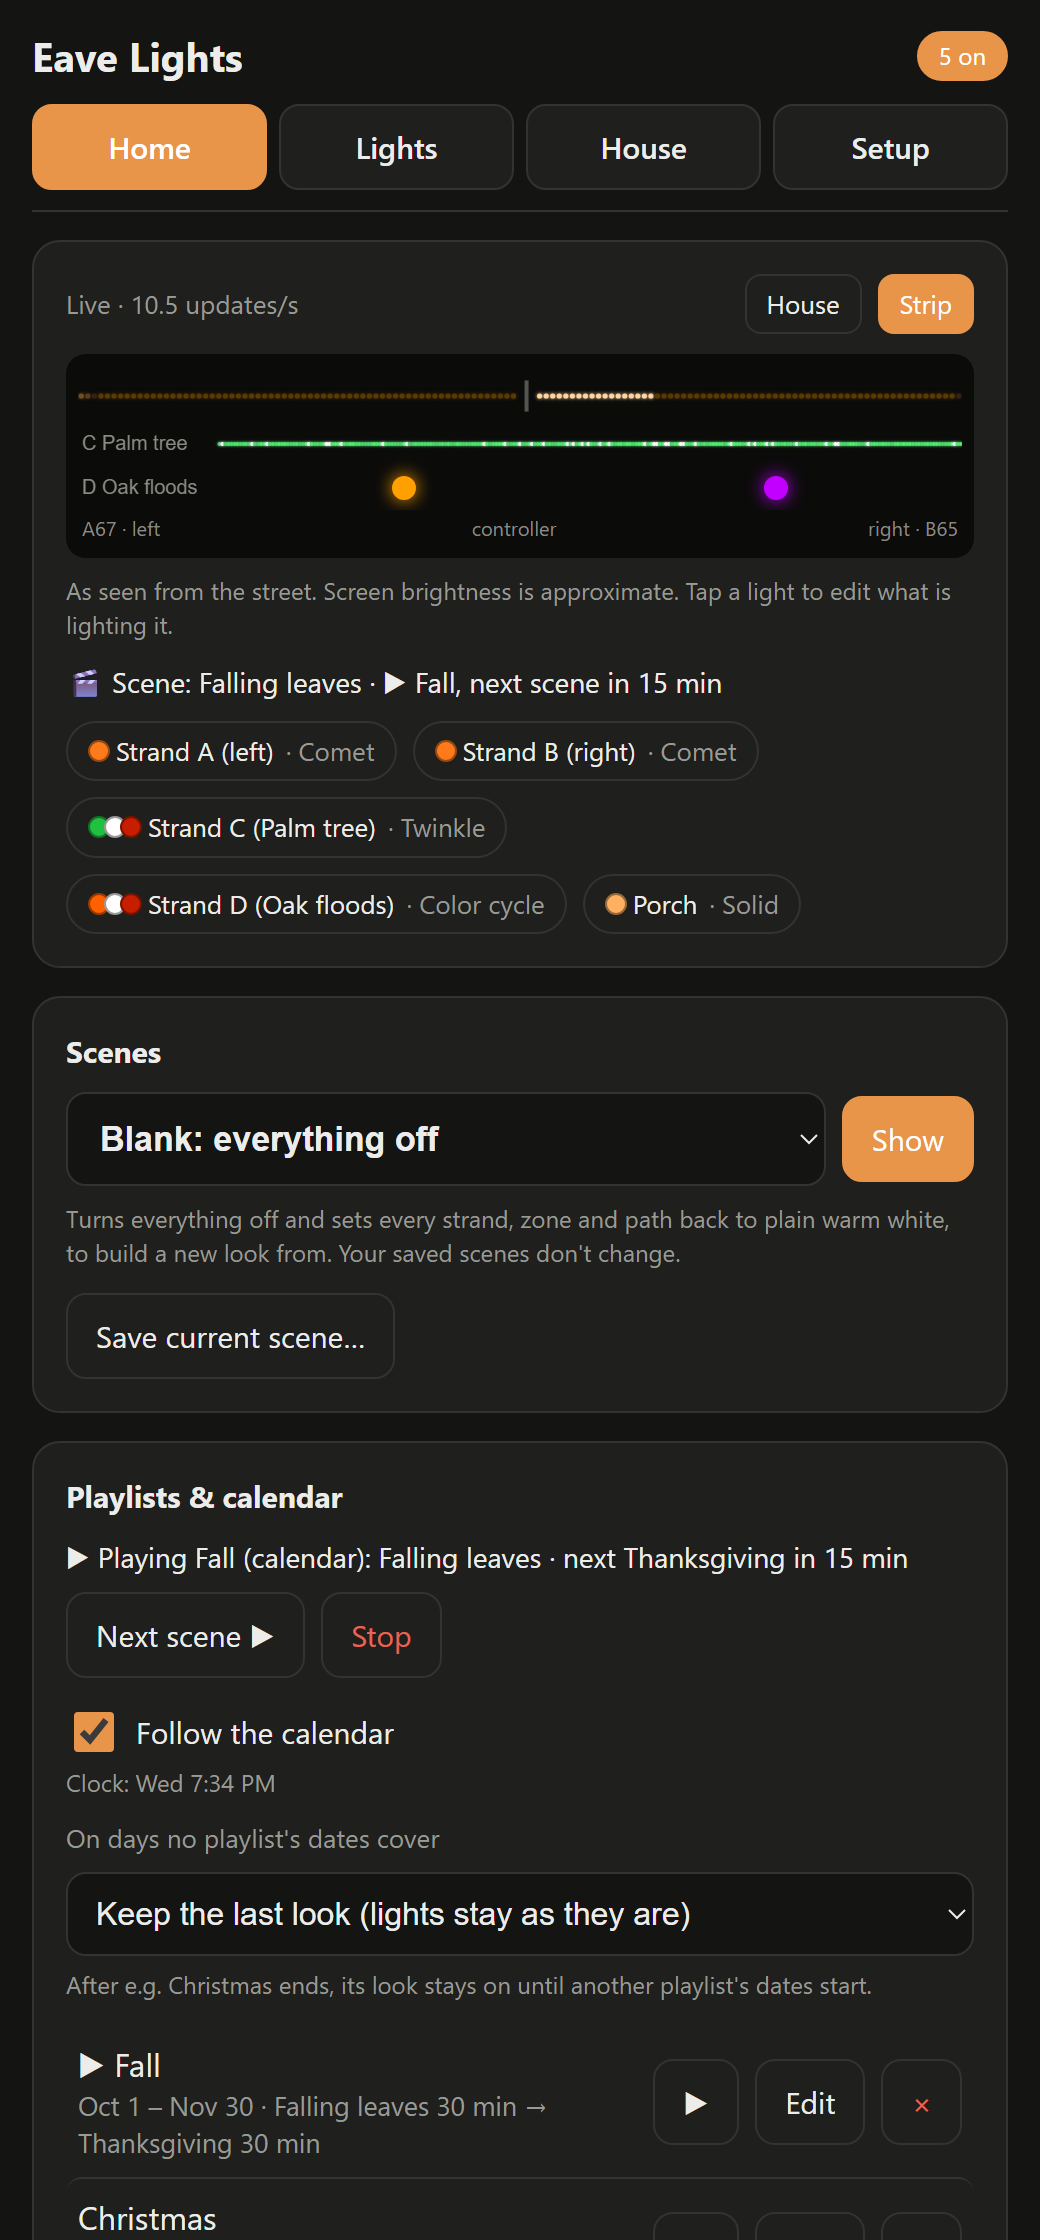
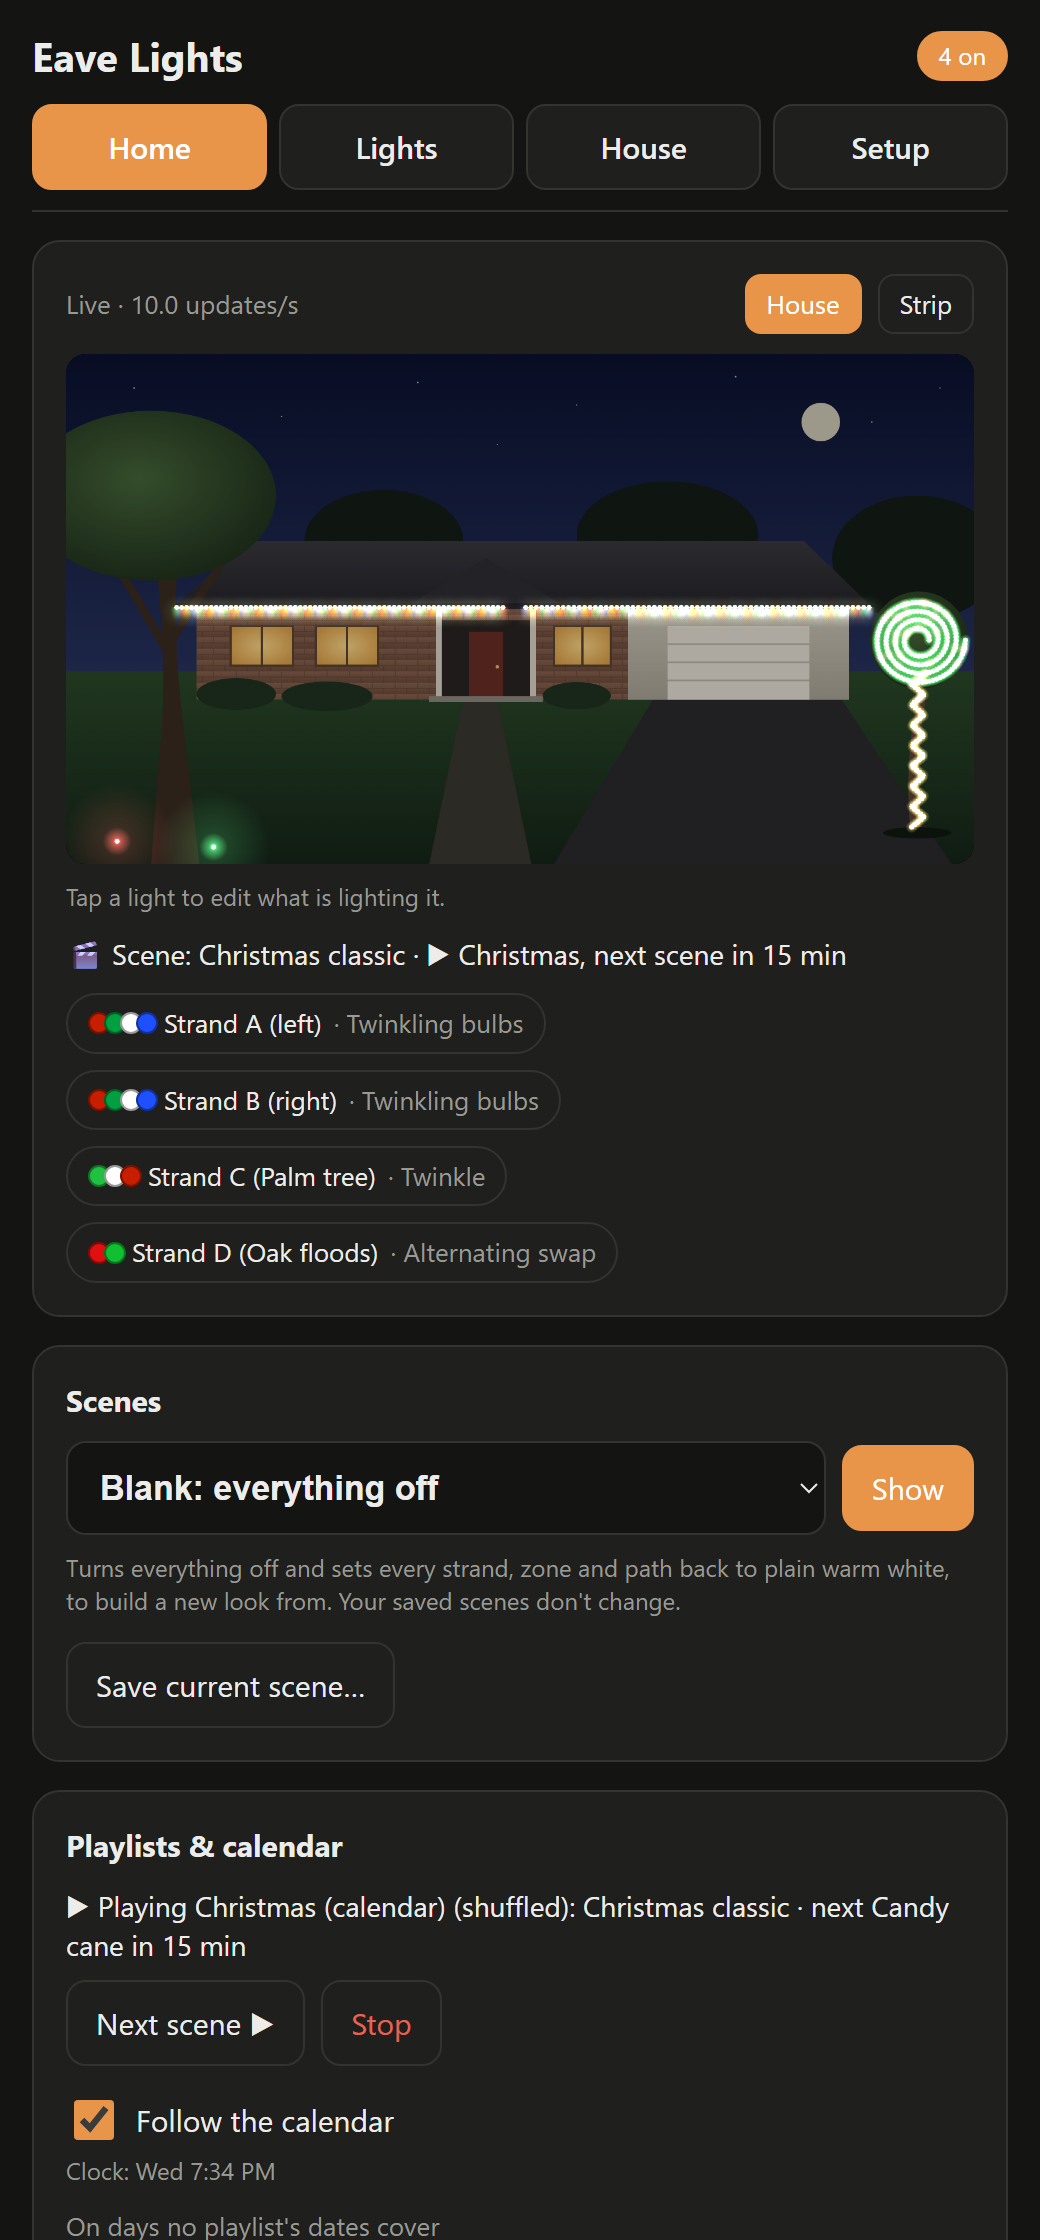
README: wide live house view on a made-up house, phone screenshots with the house view; Docs/images/demo kit to remake them

diff --git a/Docs/images/demo/mock.js b/Docs/images/demo/mock.js
@@ -1,0 +1,50 @@
+// Sample data for README screenshots (no real house data). Loaded before the page script.
+(function(){
+const TAB=(location.hash.slice(1)||'home');
+localStorage.setItem('eaveTab',JSON.stringify(TAB));
+localStorage.setItem('eaveLiveMode',JSON.stringify('photo'));
+localStorage.setItem('eaveSel',JSON.stringify(0));
+localStorage.setItem('eaveFolds',JSON.stringify(TAB==='setup'?['strands','radio','power']:[]));
+const look=(o)=>Object.assign({on:true,color:'#FF8C28',brightness:200,mode:'solid',fadeSeconds:5,fadeMin:64,speed:20,size:8,reverse:false,random:0,bgOn:true,bothWays:false,flipEvery:6,bgColor:'#1A0A00',colorCount:3,colors:['#FFFFFF','#C81E00','#00A040','#0040FF']},o);
+const out=(id,name,type,pin,count,o)=>Object.assign(look(o),{id,name,type,pin,running:true,order:id<'C'?'RBG':'RGB',gpio:type==='wired'?pin:0,enabled:type!=='off',count,cap:{override:id==='D',color:255,sum:765}});
+const S={version:'0.41.1',storage:true,canAllOn:false,
+ outputs:[out('A','left','wired',8,67,{mode:'bulbs',color:'#C81E00',colorCount:4,colors:['#00A040','#FFFFFF','#1E50FF','#FF8C00'],size:1}),out('B','right','wired',9,65,{mode:'bulbs',color:'#C81E00',colorCount:4,colors:['#00A040','#FFFFFF','#1E50FF','#FF8C00'],size:1}),
+  out('C','Palm tree','radio',10,250,{mode:'twinkle',color:'#20C040'}),out('D','Oak floods','radio',11,2,{mode:'alternate',color:'#E01010',colorCount:2,colors:['#10C030','#FFFFFF','#FF0000','#0000FF']}),
+  out('E','','off',12,50,{on:false}),out('F','','off',13,50,{on:false})],
+ capGlobal:{red:240,green:240,blue:240,sum:570},capMeasured:{color:240,sum:400},restartNeeded:false,pins:[1,2,4,5,6,7,8,9,10,11,12,13,14,15,16,17,18,21,38,39,40,41,42,47],
+ boardLed:{strand:'D',light:1,pin:48,running:true},
+ radio:{ok:true,channel:6,rate:'long',hubs:[{mac:'68:9D:D2:00:00:01',name:'Palm box',fw:'hub 1.1.0',strands:'CD',rssi:-71,rssiHere:-68,pct:99,uptime:3600,age:1}]},
+ house:Object.assign(look({on:false,mode:'comet'}),{id:'house',name:'Whole house',length:132}),
+ zones:[Object.assign(look({on:false,mode:'solid',color:'#FFB060',colorCount:1}),{id:'z0',slot:0,name:'Porch',ranges:'B1-18',length:18,hidden:false,mirror:null}),
+  Object.assign(look({on:false}),{id:'z1',slot:1,name:'Garage',ranges:'A6-23',length:18,hidden:false,mirror:null}),
+  Object.assign(look({on:false}),{id:'z2',slot:2,name:'Trunk up',ranges:'C1-30',length:30,hidden:false,mirror:null}),
+  Object.assign(look({on:false}),{id:'z3',slot:3,name:'Trunk down',ranges:'C60-31',length:30,hidden:false,mirror:2})],
+ paths:[Object.assign(look({on:false,mode:'meteor'}),{id:'p0',slot:0,name:'Rocket',summary:'Trunk up → Fronds',steps:[{zone:2,reverse:false,gap:0}],length:30})],
+ scene:{id:6,name:'Christmas classic',edited:false},locate:{active:false,ranges:''}};
+// a colorful frame: comet on the eaves, porch warm, palm twinkle, floods orange/purple
+function frame(){if(window.DEMO_FRAME)return window.DEMO_FRAME(S.outputs.map(o=>o.count));const n=6,cnt=S.outputs.map(o=>o.count),b=[n];cnt.forEach(c=>b.push(c&255,c>>8));
+ const t=Date.now()/1000;
+ cnt.forEach((c,o)=>{for(let i=0;i<c;i++){let r=0,g=0,bl=0;
+  if(o<2){const head=(t*20)%80,d=head-i;if(d>=0&&d<14){const k=1-d/14;r=255*k;g=110*k;bl=20*k;}else{r=26;g=10;}
+   if(o===1&&i<18){r=255;g=170;bl=90;}}
+  else if(o===2){const s=Math.sin(i*12.9898)*43758.5;const f=s-Math.floor(s);r=20;g=150+90*f;bl=40;if(f>0.85){r=255;g=255;bl=255;}}
+  else if(o===3){if(i===0){r=255;g=90;}else{r=140;bl=255;}}
+  b.push(Math.round(r),Math.round(g),Math.round(bl));}});
+ return new Uint8Array(b).buffer;}
+const scenes=[['Warm white',14],['Falling leaves',6],['Halloween glow',7],['Halloween 3 color',7],['Thanksgiving',8],['Candy cane',9],['Christmas classic',9],['Winter blue',10]]
+ .map(([name,group],id)=>({id,name,on:4,colors:['#FF8C28','#C81E00','#20C040'],group}));
+const progs={programs:[{id:0,name:'Fall',steps:[{scene:1,seconds:1800},{scene:4,seconds:1800}],useDates:true,from:'10-01',to:'11-30',shuffle:false},
+ {id:1,name:'Christmas',steps:[{scene:5,seconds:1200},{scene:6,seconds:1200}],useDates:true,from:'12-01',to:'01-06',shuffle:true}],
+ active:{id:1,step:1,next:0,nextIn:900,manual:false},clock:'Wed 7:34 PM',timer:{enabled:true,onMode:0,onClock:1050,onOffset:0,offMode:0,offClock:420,offOffset:0,lat:40,lon:-82.9,sunset:1032,sunrise:461,todayOn:1032,todayOff:461,holdsOff:false,overrideLeft:-1},
+ scheduleOn:true,fallback:-1,manual:-1};
+window.fetch=async(u)=>{u=String(u);const J=x=>({ok:true,status:200,json:async()=>x,text:async()=>JSON.stringify(x),headers:{get:()=>'0'},arrayBuffer:async()=>frame()});
+ if(u.includes('/api/frame')||u.includes('/api/custom?'))return J(null);
+ if(u.includes('/api/state')||u.includes('/api/strands')||u.includes('/api/locate'))return J(S);
+ if(u.includes('/api/programs'))return J(progs);
+ if(u.includes('/api/presets'))return J({presets:[{id:0,name:'Xmas chase',mode:'chase',color:'#C81E00',bgOn:false,bgColor:'#000000',colorCount:2,colors:['#00A040','#FFFFFF','#FF0000','#0000FF']},{id:1,name:'Warm glow',mode:'fade',color:'#FFA040',bgOn:false,bgColor:'#000000',colorCount:1,colors:['#FFFFFF','#FF0000','#00FF00','#0000FF']}],scenes});
+ if(u.includes('/api/paint-meta'))return J({paintings:[{id:1,name:'Flag',used:[],locked:false}],swatches:['#FF8C28','#C81E00','#20C040','#FFFFFF']});
+ if(u.includes('/api/anims'))return J({anims:[]});
+ if(u.includes('/files/layout.json'))return J(window.DEMO_LAYOUT);
+ return {ok:false,status:404,json:async()=>({}),text:async()=>''};};
+window.addEventListener('error',e=>console.log('PAGEERR '+e.message+' @'+e.lineno));
+})();

diff --git a/Docs/images/demo/house.html b/Docs/images/demo/house.html
@@ -1,0 +1,53 @@
+<!doctype html><html><head><style>html,body{margin:0;background:#000}svg{display:block}</style></head><body>
+<!-- A made-up ranch house at dusk for the README screenshots (not a real house). 1600 x 900. -->
+<svg width="1600" height="900" viewBox="0 0 1600 900" xmlns="http://www.w3.org/2000/svg">
+<defs>
+ <linearGradient id="sky" x1="0" y1="0" x2="0" y2="1"><stop offset="0" stop-color="#0b1230"/><stop offset="0.6" stop-color="#27325e"/><stop offset="1" stop-color="#4a3f63"/></linearGradient>
+ <linearGradient id="lawn" x1="0" y1="0" x2="0" y2="1"><stop offset="0" stop-color="#2c4a2a"/><stop offset="1" stop-color="#16261a"/></linearGradient>
+ <linearGradient id="roof" x1="0" y1="0" x2="0" y2="1"><stop offset="0" stop-color="#3a3a40"/><stop offset="1" stop-color="#26262b"/></linearGradient>
+ <linearGradient id="wall" x1="0" y1="0" x2="0" y2="1"><stop offset="0" stop-color="#8a6450"/><stop offset="1" stop-color="#6e4c3d"/></linearGradient>
+ <linearGradient id="siding" x1="0" y1="0" x2="0" y2="1"><stop offset="0" stop-color="#cfcabd"/><stop offset="1" stop-color="#aaa597"/></linearGradient>
+ <radialGradient id="win" cx="0.5" cy="0.5" r="0.7"><stop offset="0" stop-color="#ffd98a"/><stop offset="1" stop-color="#d99a40"/></radialGradient>
+ <radialGradient id="canopy" cx="0.45" cy="0.4" r="0.6"><stop offset="0" stop-color="#4a6b3a"/><stop offset="1" stop-color="#22351d"/></radialGradient>
+ <pattern id="brick" width="40" height="20" patternUnits="userSpaceOnUse"><rect width="40" height="20" fill="url(#wall)"/><path d="M0 10H40M20 0V10M0 10V20M40 10V20" stroke="#5a3d30" stroke-width="1.5" opacity="0.6"/></pattern>
+</defs>
+<rect width="1600" height="900" fill="url(#sky)"/>
+<g fill="#fff" opacity="0.7"><circle cx="120" cy="60" r="1.6"/><circle cx="380" cy="110" r="1.2"/><circle cx="620" cy="50" r="1.5"/><circle cx="900" cy="90" r="1.1"/><circle cx="1180" cy="40" r="1.6"/><circle cx="1420" cy="120" r="1.3"/><circle cx="1540" cy="60" r="1.1"/><circle cx="760" cy="160" r="1"/></g>
+<circle cx="1330" cy="120" r="34" fill="#f3eccf" opacity="0.85"/>
+<!-- background trees -->
+<g fill="#141d16"><ellipse cx="560" cy="330" rx="140" ry="90"/><ellipse cx="1060" cy="320" rx="160" ry="95"/><ellipse cx="1500" cy="360" rx="150" ry="110"/></g>
+<rect y="560" width="1600" height="340" fill="url(#lawn)"/>
+<!-- driveway -->
+<path d="M1040 600 L1360 600 L1560 900 L860 900 Z" fill="#2b2b2e"/>
+<path d="M700 610 L760 610 L820 900 L640 900 Z" fill="#3a3832"/>
+<!-- house body -->
+<rect x="230" y="440" width="760" height="170" fill="url(#brick)"/>
+<rect x="990" y="440" width="390" height="170" fill="url(#siding)"/>
+<!-- roof (hip) with overhang: eave line at y=440 -->
+<path d="M190 446 L1420 446 L1300 330 L320 330 Z" fill="url(#roof)"/>
+<path d="M600 446 L740 360 L880 446 Z" fill="#2f2f35"/>
+<rect x="190" y="440" width="1230" height="10" fill="#1d1d21"/>
+<!-- windows -->
+<g><rect x="290" y="480" width="110" height="70" fill="url(#win)"/><rect x="440" y="480" width="110" height="70" fill="url(#win)"/>
+<rect x="860" y="480" width="100" height="70" fill="url(#win)"/>
+<g stroke="#5b4430" stroke-width="4" fill="none"><rect x="290" y="480" width="110" height="70"/><rect x="440" y="480" width="110" height="70"/><rect x="860" y="480" width="100" height="70"/>
+<path d="M345 480V550M495 480V550M910 480V550"/></g></g>
+<!-- porch and door -->
+<rect x="660" y="470" width="160" height="140" fill="#2a2523"/>
+<rect x="710" y="490" width="60" height="120" fill="#6a2f24"/><circle cx="760" cy="552" r="3" fill="#e8c070"/>
+<g fill="#ddd6c8"><rect x="652" y="450" width="10" height="160"/><rect x="818" y="450" width="10" height="160"/></g>
+<rect x="640" y="604" width="200" height="10" fill="#8f8a80"/>
+<!-- garage -->
+<rect x="1060" y="480" width="250" height="130" fill="#e7e2d6"/>
+<g stroke="#bdb7a8" stroke-width="3"><path d="M1060 512H1310M1060 544H1310M1060 576H1310"/></g>
+<!-- bushes -->
+<g fill="#1f3320"><ellipse cx="300" cy="600" rx="70" ry="28"/><ellipse cx="460" cy="604" rx="80" ry="26"/><ellipse cx="900" cy="603" rx="60" ry="24"/></g>
+<!-- big oak, left front -->
+<path d="M150 900 L170 640 Q175 520 160 380 L195 380 Q190 520 205 640 L235 900 Z" fill="#3b2c22"/>
+<path d="M175 520 Q120 420 80 360 M190 500 Q250 400 290 350" stroke="#3b2c22" stroke-width="14" fill="none"/>
+<ellipse cx="150" cy="250" rx="220" ry="150" fill="url(#canopy)" opacity="0.95"/>
+<!-- palm-like tree, right front: trunk + round top -->
+<path d="M1488 840 Q1478 740 1494 640 Q1502 600 1496 560 L1512 560 Q1518 600 1510 640 Q1496 740 1508 840 Z" fill="#5a4636"/>
+<circle cx="1503" cy="505" r="86" fill="url(#canopy)"/>
+<ellipse cx="1500" cy="845" rx="60" ry="10" fill="#0f1a10"/>
+</svg></body></html>

diff --git a/Docs/images/demo/layout.js b/Docs/images/demo/layout.js
@@ -1,0 +1,15 @@
+// Sample house layout for the screenshots: eaves A (left of the controller) and B (right),
+// palm trunk + round top (C), two floods at the oak (D). Coordinates 0-1 of house.png.
+(function(){
+const W=1600,H=900,P=(x,y)=>[+(x/W).toFixed(4),+(y/H).toFixed(4)];
+const trunk=[];for(let k=0,y=835;y>=560;y-=18,k++)trunk.push(P(k%2?1512:1490,y));
+const top=[];const cx=1503,cy=505;for(let a=0;a<=360*4;a+=12){const r=82-a/360*16,t=a*Math.PI/180;top.push(P(cx+r*Math.cos(t),cy+r*Math.sin(t)*0.95));}
+window.DEMO_LAYOUT={schemaVersion:1,settings:{night:0.25,glow:1.3,style:'down',throw:1.0,spread:1.0},
+ views:[{id:'v1',name:'Front',image:'house.png',width:W,height:H,placements:[
+  {item:'A',itemName:'Strand A',from:1,to:67,points:[P(770,447),P(195,447)]},
+  {item:'B',itemName:'Strand B',from:1,to:65,points:[P(810,447),P(1415,447)]},
+  {item:'C',itemName:'Palm trunk',from:1,to:60,points:trunk,look:'point'},
+  {item:'C',itemName:'Palm top',from:61,to:250,points:top,look:'point'},
+  {item:'D',itemName:'Flood 1',from:1,to:1,points:[P(90,860)],look:'glow'},
+  {item:'D',itemName:'Flood 2',from:2,to:2,points:[P(260,870)],look:'glow'}]}]};
+})();

diff --git a/Docs/images/demo/frame.js b/Docs/images/demo/frame.js
@@ -1,0 +1,9 @@
+// Christmas frame for the screenshots (overrides frame() in mock2.js through window.DEMO_FRAME).
+window.DEMO_FRAME=function(cnt){const b=[cnt.length];cnt.forEach(c=>b.push(c&255,c>>8));
+ const bulbs=[[230,20,10],[10,190,50],[255,240,210],[30,80,255],[255,140,0]];
+ const rnd=i=>{const s=Math.sin(i*12.9898+78.233)*43758.5453;return s-Math.floor(s);};
+ cnt.forEach((c,o)=>{for(let i=0;i<c;i++){let col=[0,0,0];
+  if(o<2){col=bulbs[(i+o*3)%5].map(v=>Math.round(v*(0.75+0.25*rnd(i*7+o))));}
+  else if(o===2){const f=rnd(i);col=i<60?[180,120,30]:[20,140+Math.round(80*f),40];if(f>0.88)col=[255,230,140];}
+  else if(o===3){col=i===0?[230,20,20]:[20,200,50];}
+  b.push(...col);}});return new Uint8Array(b).buffer;};

diff --git a/README.md b/README.md
@@ -6,11 +6,13 @@ Everything is controlled from a web page on any phone or PC on the home network:
 
 Current firmware: **v0.41.2** · Hub: **1.1.0**
 
+<img src="Docs/images/hero.png" width="720" alt="Live house view: eave lights in multicolor bulbs, a palm tree wound with lights, two flood lights at an oak">
+
 | Home | Lights | Setup |
 |---|---|---|
 | <img src="Docs/images/home.png" width="260" alt="Home tab: live strip view, what's lit, scenes and playlists"> | <img src="Docs/images/lights.png" width="260" alt="Lights tab: what you control, live view, saved looks, effect settings"> | <img src="Docs/images/setup.png" width="260" alt="Setup tab: search, strands, power limits, radio hubs"> |
 
-<sub>Screenshots of the real page with sample settings (the house-photo view is left out).</sub>
+<sub>Screenshots of the real page with sample settings on a made-up house (remake them with `Docs/images/demo/make_screenshots.sh`).</sub>
 
 ---
 
